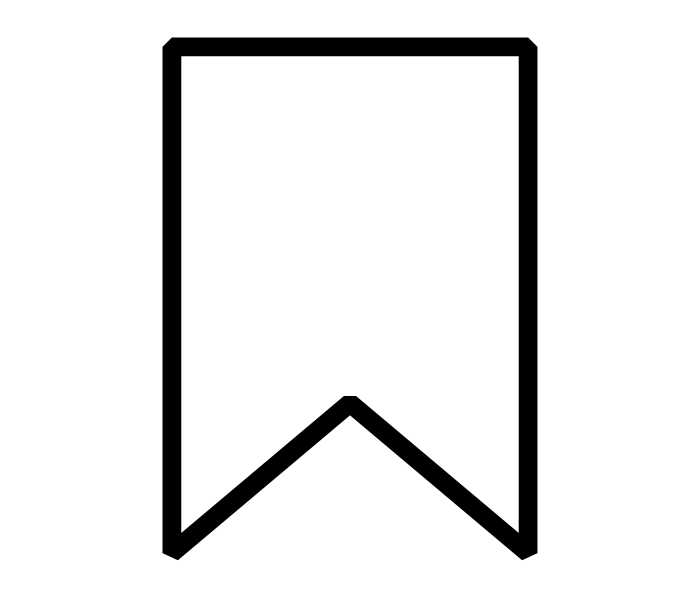
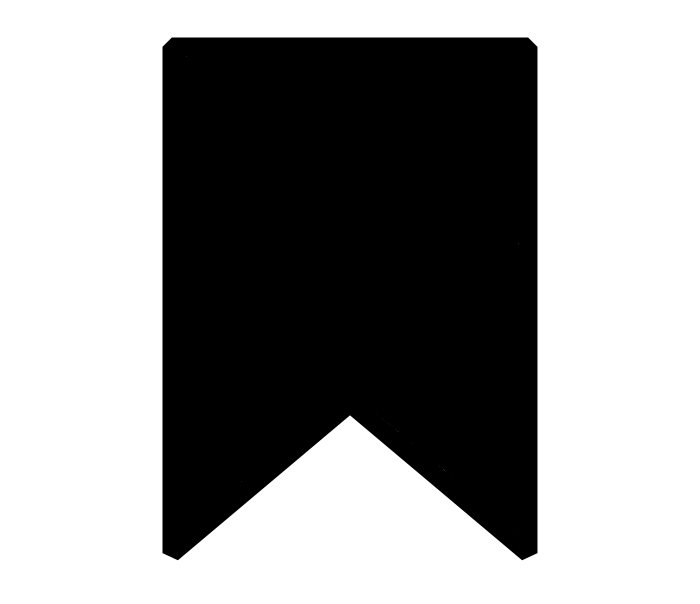
css listo

diff --git a/cheffer/src/assets/styles/index.scss b/cheffer/src/assets/styles/index.scss
@@ -65,12 +65,28 @@ header {
             transition: 0.3s;
         }	
 }
+.save-button{
+    color: white;
+    background-color: white;
+    border: 1px solid white;
+    padding: 4px 15px;
+    border-radius: 5px;
+    text-decoration: none;
+    width: 20px;
+    height: 20px;
+    cursor: pointer;
+    &:hover {
+        background-color: white;
+        color: black;
+        transition: 0.3s;
+    }	
+}
 .index-sign-in-button{
     color: black;
     background-color: #f0ebe4;
     border: 1px solid #7c7469;
     padding: 4px 15px;
-    border-radius: 5px;
+    border-radius: 20px;
     text-decoration: none;
     width: 100px;
     height: 30px;
@@ -193,6 +209,45 @@ header {
   }
   
   .button1:hover span:after {
+    opacity: 1;
+    right: 0;
+  }
+
+  .button2 {
+    border-radius: 4px;
+    background-color: #ffffff;
+    border: none;
+    color: black;
+    text-align: center;
+    font-size: 14px;
+    padding: 20px;
+    width: 120px;
+    height: 50px;
+    transition: all 0.5s;
+    cursor: pointer;
+    // margin: 5px;
+  }
+  .button2 span {
+    cursor: pointer;
+    display: inline-block;
+    position: relative;
+    transition: 0.5s;
+  }
+  
+  .button2 span:after {
+    content: '\00bb';
+    position: absolute;
+    opacity: 0;
+    top: 0;
+    right: -20px;
+    transition: 0.5s;
+  }
+  
+  .button2:hover span {
+    padding-right: 25px;
+  }
+  
+  .button2:hover span:after {
     opacity: 1;
     right: 0;
   }

diff --git a/cheffer/src/assets/js/assets.js b/cheffer/src/assets/js/assets.js
@@ -8,6 +8,7 @@ import '../images/messages.png';
 import '../images/upload.png';
 import '../images/lupa.png';
 import '../images/mamapapa.JPG';
+import '../images/save.png';
 import '../images/saved.png';
 import '../images/tagged.png';
 import '../images/posts.png';
